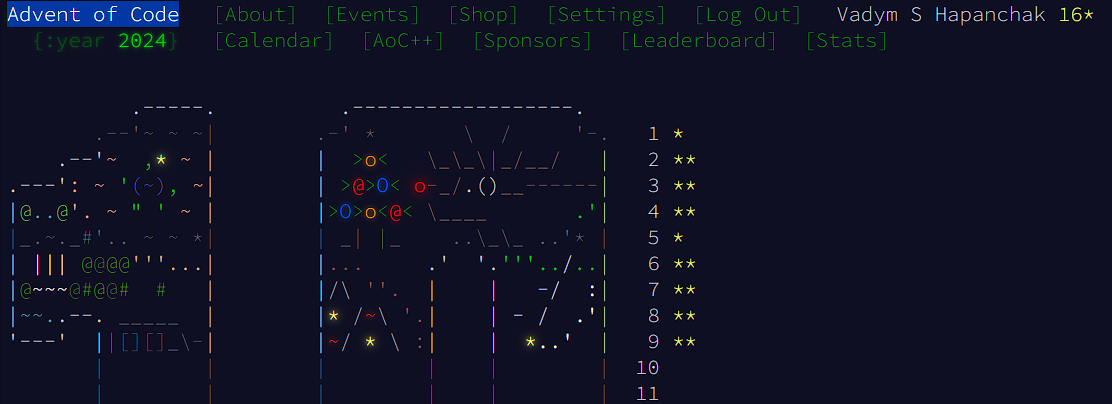
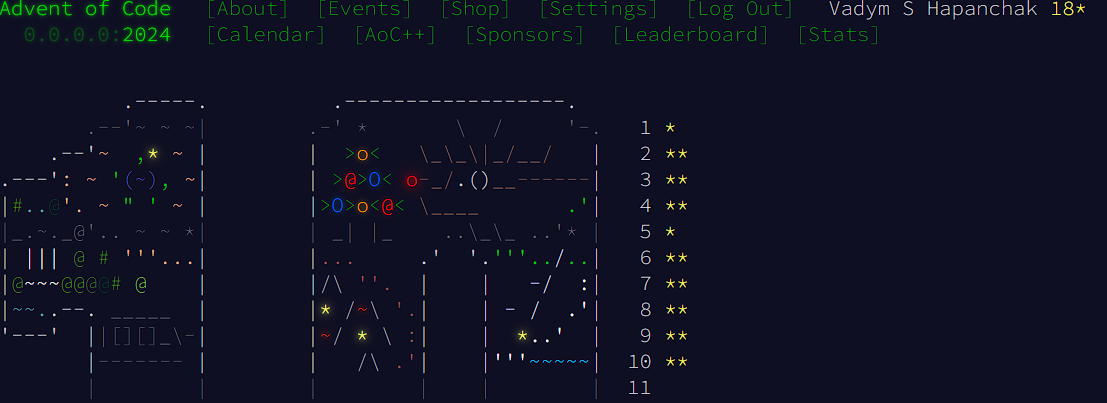
day 10 done (18 stars)

diff --git a/day10/exe.cpp b/day10/exe.cpp
@@ -1,0 +1,131 @@
+#include <iostream>
+#include <fstream>
+#include <vector>
+#include <unordered_map>
+#include <algorithm> 
+#include <cstdlib>
+#include <sstream>
+#include <cctype> 
+#include <cassert>
+
+/*
+
+for debug print : g++ -DDEBUG -o exe exe.cpp
+for GDB 		: g++ -DDEBUG -g -o exe exe.cpp
+run GDB 		: gdb ./exe
+optimization 	: g++ -O2 -o exe exe.cpp
+
+result part 1:  6463499258318
+
+result part 2: 
+
+*/
+
+using namespace std; 
+
+using ull = unsigned long long; 
+using MAP = vector<vector<char>>; // our playground 
+
+static ull totalScore = 0; 	// total score 
+static int L , H; 			// map dimentions   
+
+struct Pos {
+	int i;
+	int j; 
+}; 
+
+void printVec (const vector<char>& vec){
+	for (const auto& i : vec){
+		printf(" %d ", i); 
+	}
+	printf ("\n"); 
+}
+
+void printMap (const MAP& map){
+	for (const auto& i : map){
+		printVec(i); 
+	}
+}
+
+void findTrail (MAP& map, Pos pos, int height){
+	
+	if (pos.i > 0 && (map[pos.i - 1][pos.j] - height == 1)){
+		if (map[pos.i - 1][pos.j] == 9) { map[pos.i - 1][pos.j] = -1; ++totalScore;}
+		else findTrail(map, {pos.i - 1, pos.j}, height+1);  
+	}
+	if (pos.i < L-1 && (map[pos.i + 1][pos.j] - height == 1)){
+		if (map[pos.i + 1][pos.j] == 9) {map[pos.i + 1][pos.j] = -1; ++totalScore;}
+		else findTrail(map, {pos.i + 1, pos.j}, height+1);  
+	}
+	if (pos.j > 0 && (map[pos.i][pos.j - 1] - height == 1)){
+		if (map[pos.i][pos.j - 1] == 9) {map[pos.i][pos.j - 1] = -1; ++totalScore;}
+		else findTrail(map, {pos.i, pos.j-1}, height+1);  
+	}
+	if (pos.j < H-1 && (map[pos.i][pos.j + 1] - height == 1)){
+		if (map[pos.i][pos.j + 1] == 9) { map[pos.i][pos.j + 1] = -1; ++totalScore;}
+		else findTrail(map, {pos.i, pos.j+1}, height+1);  
+	}
+}
+
+void countScore (const MAP& map) {
+	
+	for (int i = 0; i < L; ++i){
+		for (int j = 0; j < H; ++j){
+			
+			if (map[i][j] == 0){
+				
+				MAP mp = map; 
+				findTrail (mp, {i,j}, 0); 
+				
+			}
+			
+		}
+	}
+	
+}
+
+/*
+89010123
+78121874
+87430965
+96549874
+45678903
+32019012
+01329801
+10456732
+*/
+
+int main (){
+         
+    //std::ifstream inputFile("input.txt"); // Open the input file
+    std::ifstream inputFile("input-big.txt"); // Open the input file
+    
+	if (!inputFile) {
+        std::cerr << "Error: Unable to open the file." << std::endl;
+        return 1; // Exit with error code
+    }
+	
+	
+	MAP map {}; 
+	ull res{}; 
+	string line;
+	
+	// Read each line into the string, check EOL to be -> unix LF 
+    while (getline(inputFile, line)) { 
+		vector<char> data{};
+		for (char& c : line) if (c != '\n') data.push_back(c - '0'); 
+		map.push_back(data); 
+    }
+	
+	printMap(map); 
+	
+	L = map.size(); 
+	H = map[0].size(); 
+	printf ("size %d x %d \n", L,H); 
+	
+	countScore(map); 
+	
+	cout << "result: " << totalScore << endl;   
+	
+    return 0;
+}

diff --git a/day10/exe-2.cpp b/day10/exe-2.cpp
@@ -1,0 +1,131 @@
+#include <iostream>
+#include <fstream>
+#include <vector>
+#include <unordered_map>
+#include <algorithm> 
+#include <cstdlib>
+#include <sstream>
+#include <cctype> 
+#include <cassert>
+
+/*
+
+for debug print : g++ -DDEBUG -o exe exe.cpp
+for GDB 		: g++ -DDEBUG -g -o exe exe.cpp
+run GDB 		: gdb ./exe
+optimization 	: g++ -O2 -o exe exe.cpp
+
+result part 1:  6463499258318
+
+result part 2: 
+
+*/
+
+using namespace std; 
+
+using ull = unsigned long long; 
+using MAP = vector<vector<char>>; // our playground 
+
+static ull totalScore = 0; 	// total score 
+static int L , H; 			// map dimentions   
+
+struct Pos {
+	int i;
+	int j; 
+}; 
+
+void printVec (const vector<char>& vec){
+	for (const auto& i : vec){
+		printf(" %d ", i); 
+	}
+	printf ("\n"); 
+}
+
+void printMap (const MAP& map){
+	for (const auto& i : map){
+		printVec(i); 
+	}
+}
+
+void findTrail (MAP& map, Pos pos, int height){
+	
+	if (pos.i > 0 && (map[pos.i - 1][pos.j] - height == 1)){
+		if (map[pos.i - 1][pos.j] == 9) ++totalScore;
+		else findTrail(map, {pos.i - 1, pos.j}, height+1);  
+	}
+	if (pos.i < L-1 && (map[pos.i + 1][pos.j] - height == 1)){
+		if (map[pos.i + 1][pos.j] == 9)  ++totalScore;
+		else findTrail(map, {pos.i + 1, pos.j}, height+1);  
+	}
+	if (pos.j > 0 && (map[pos.i][pos.j - 1] - height == 1)){
+		if (map[pos.i][pos.j - 1] == 9)  ++totalScore;
+		else findTrail(map, {pos.i, pos.j-1}, height+1);  
+	}
+	if (pos.j < H-1 && (map[pos.i][pos.j + 1] - height == 1)){
+		if (map[pos.i][pos.j + 1] == 9)  ++totalScore;
+		else findTrail(map, {pos.i, pos.j+1}, height+1);  
+	}
+}
+
+void countScore (const MAP& map) {
+	
+	for (int i = 0; i < L; ++i){
+		for (int j = 0; j < H; ++j){
+			
+			if (map[i][j] == 0){
+				
+				MAP mp = map; 
+				findTrail (mp, {i,j}, 0); 
+				
+			}
+			
+		}
+	}
+	
+}
+
+/*
+89010123
+78121874
+87430965
+96549874
+45678903
+32019012
+01329801
+10456732
+*/
+
+int main (){
+         
+    //std::ifstream inputFile("input.txt"); // Open the input file
+    std::ifstream inputFile("input-big.txt"); // Open the input file
+    
+	if (!inputFile) {
+        std::cerr << "Error: Unable to open the file." << std::endl;
+        return 1; // Exit with error code
+    }
+	
+	
+	MAP map {}; 
+	ull res{}; 
+	string line;
+	
+	// Read each line into the string, check EOL to be -> unix LF 
+    while (getline(inputFile, line)) { 
+		vector<char> data{};
+		for (char& c : line) if (c != '\n') data.push_back(c - '0'); 
+		map.push_back(data); 
+    }
+	
+	printMap(map); 
+	
+	L = map.size(); 
+	H = map[0].size(); 
+	printf ("size %d x %d \n", L,H); 
+	
+	countScore(map); 
+	
+	cout << "result: " << totalScore << endl;   
+	
+    return 0;
+}
